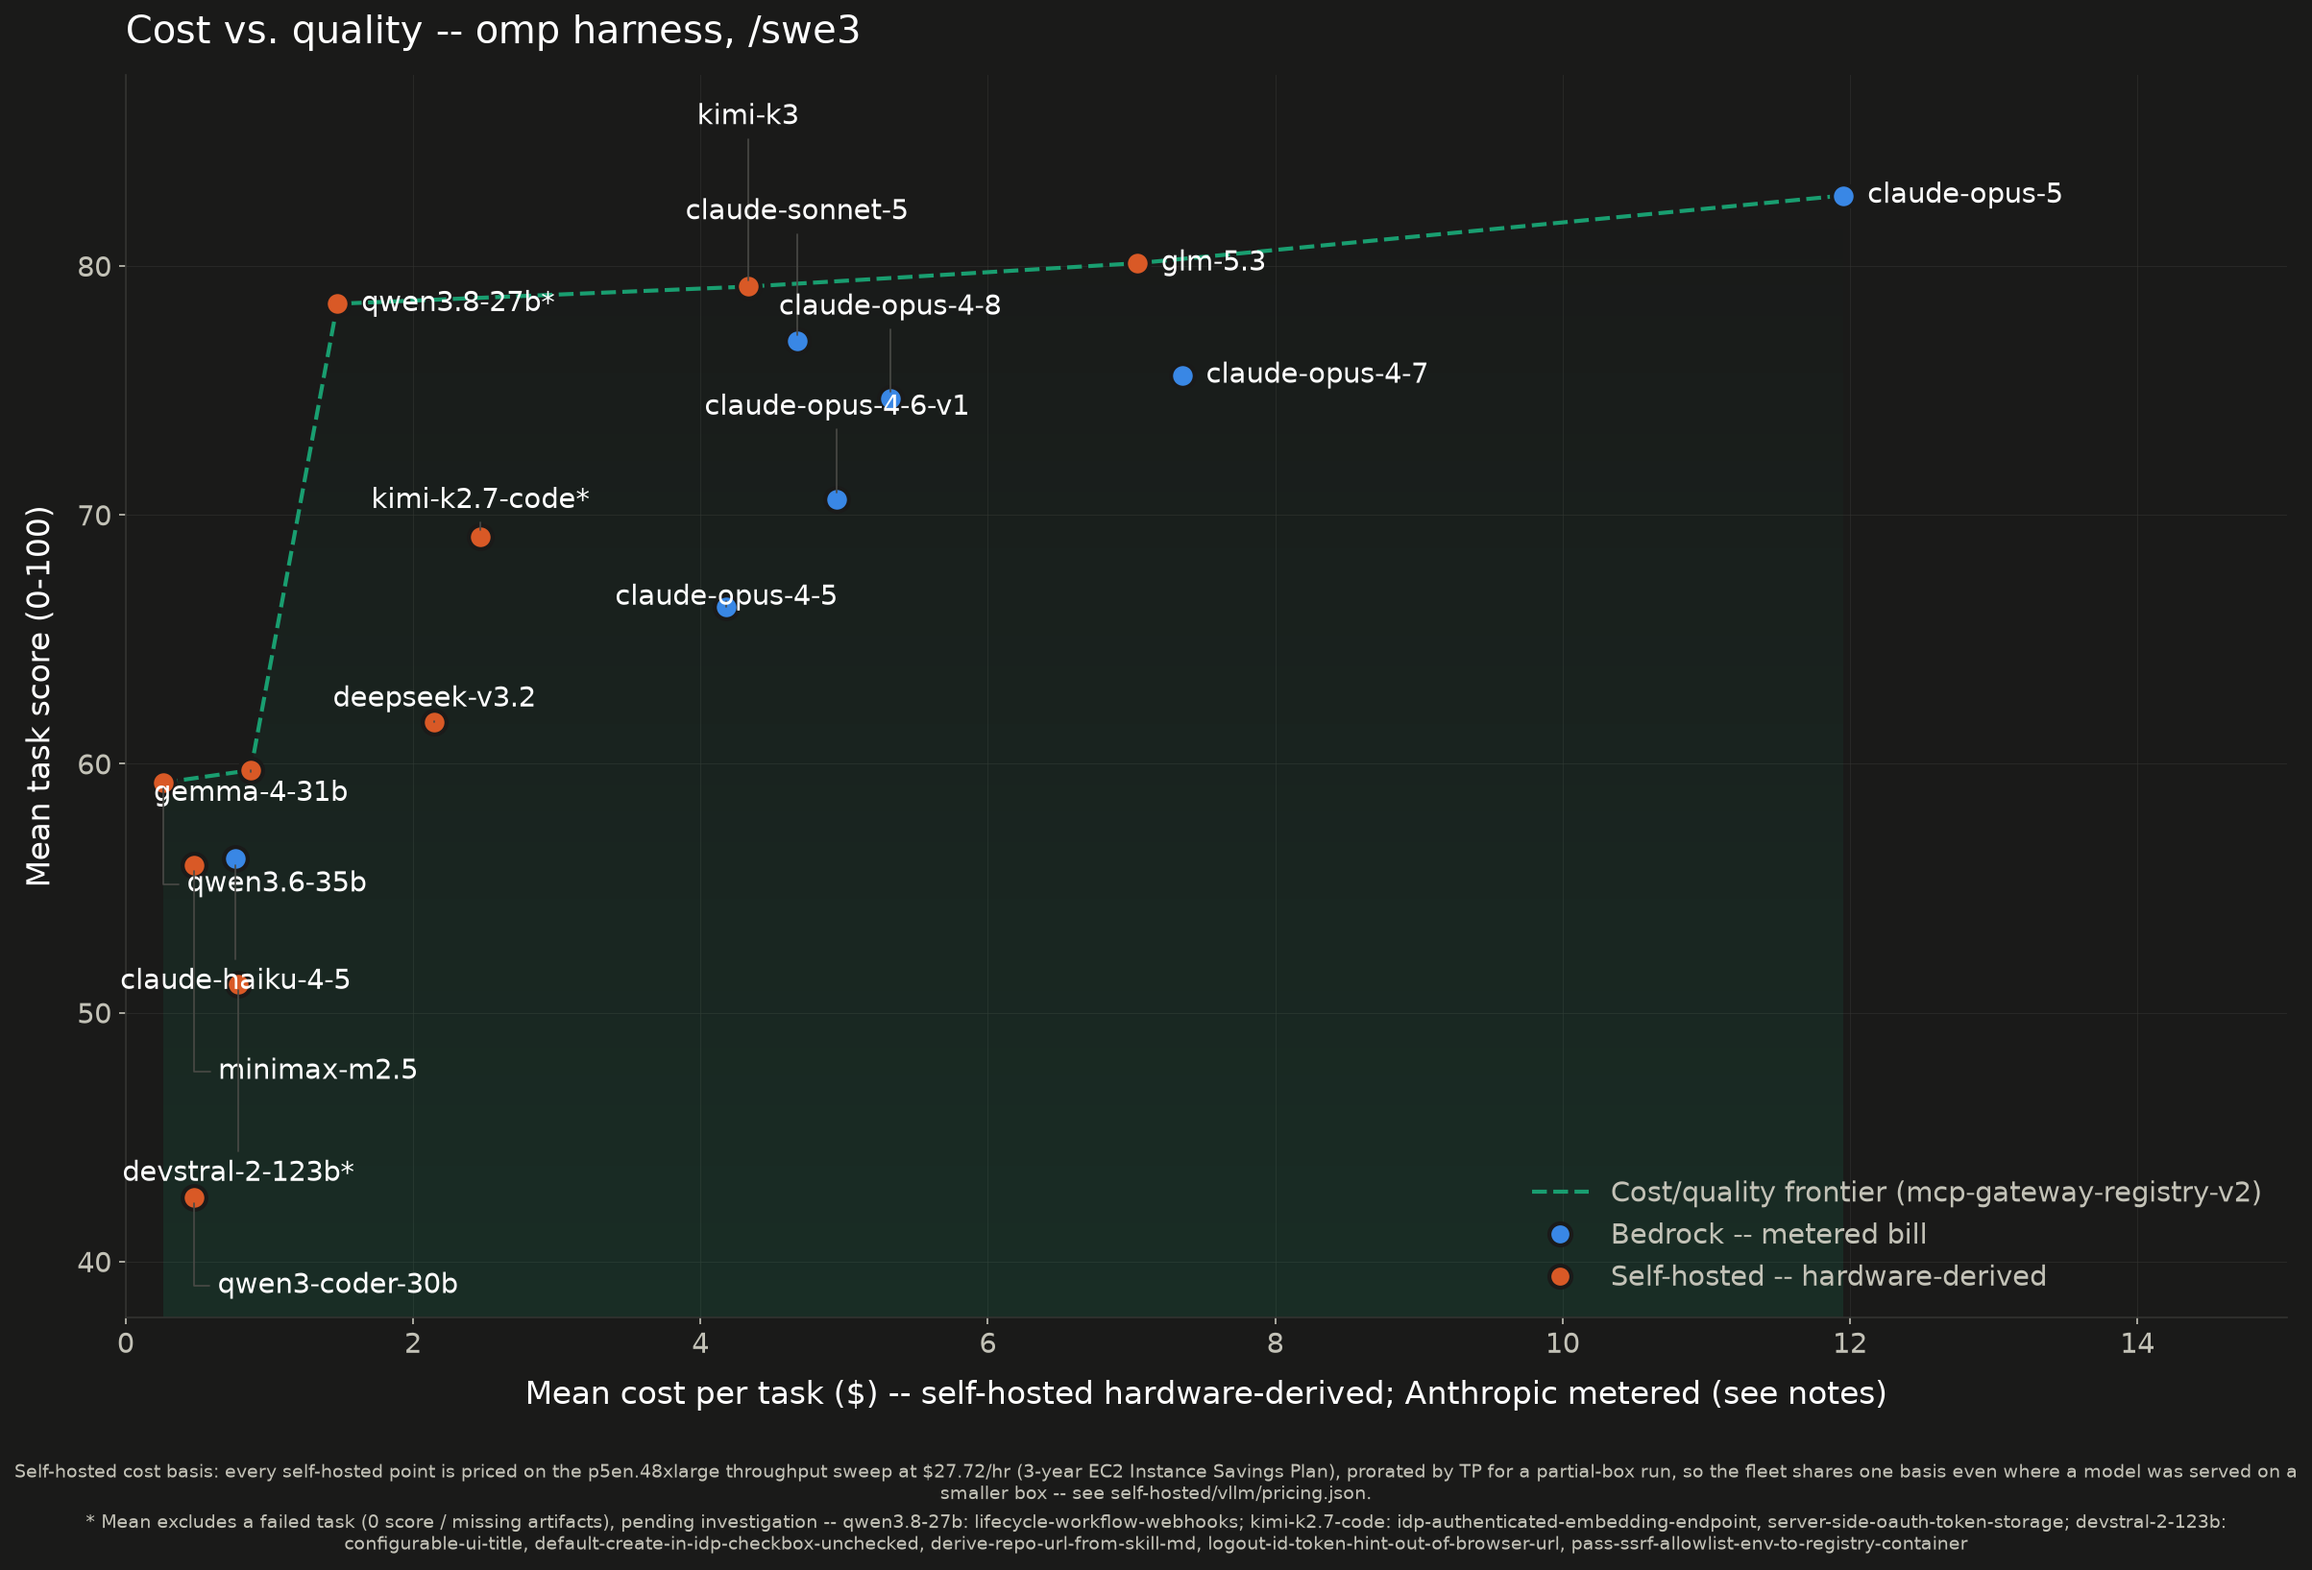
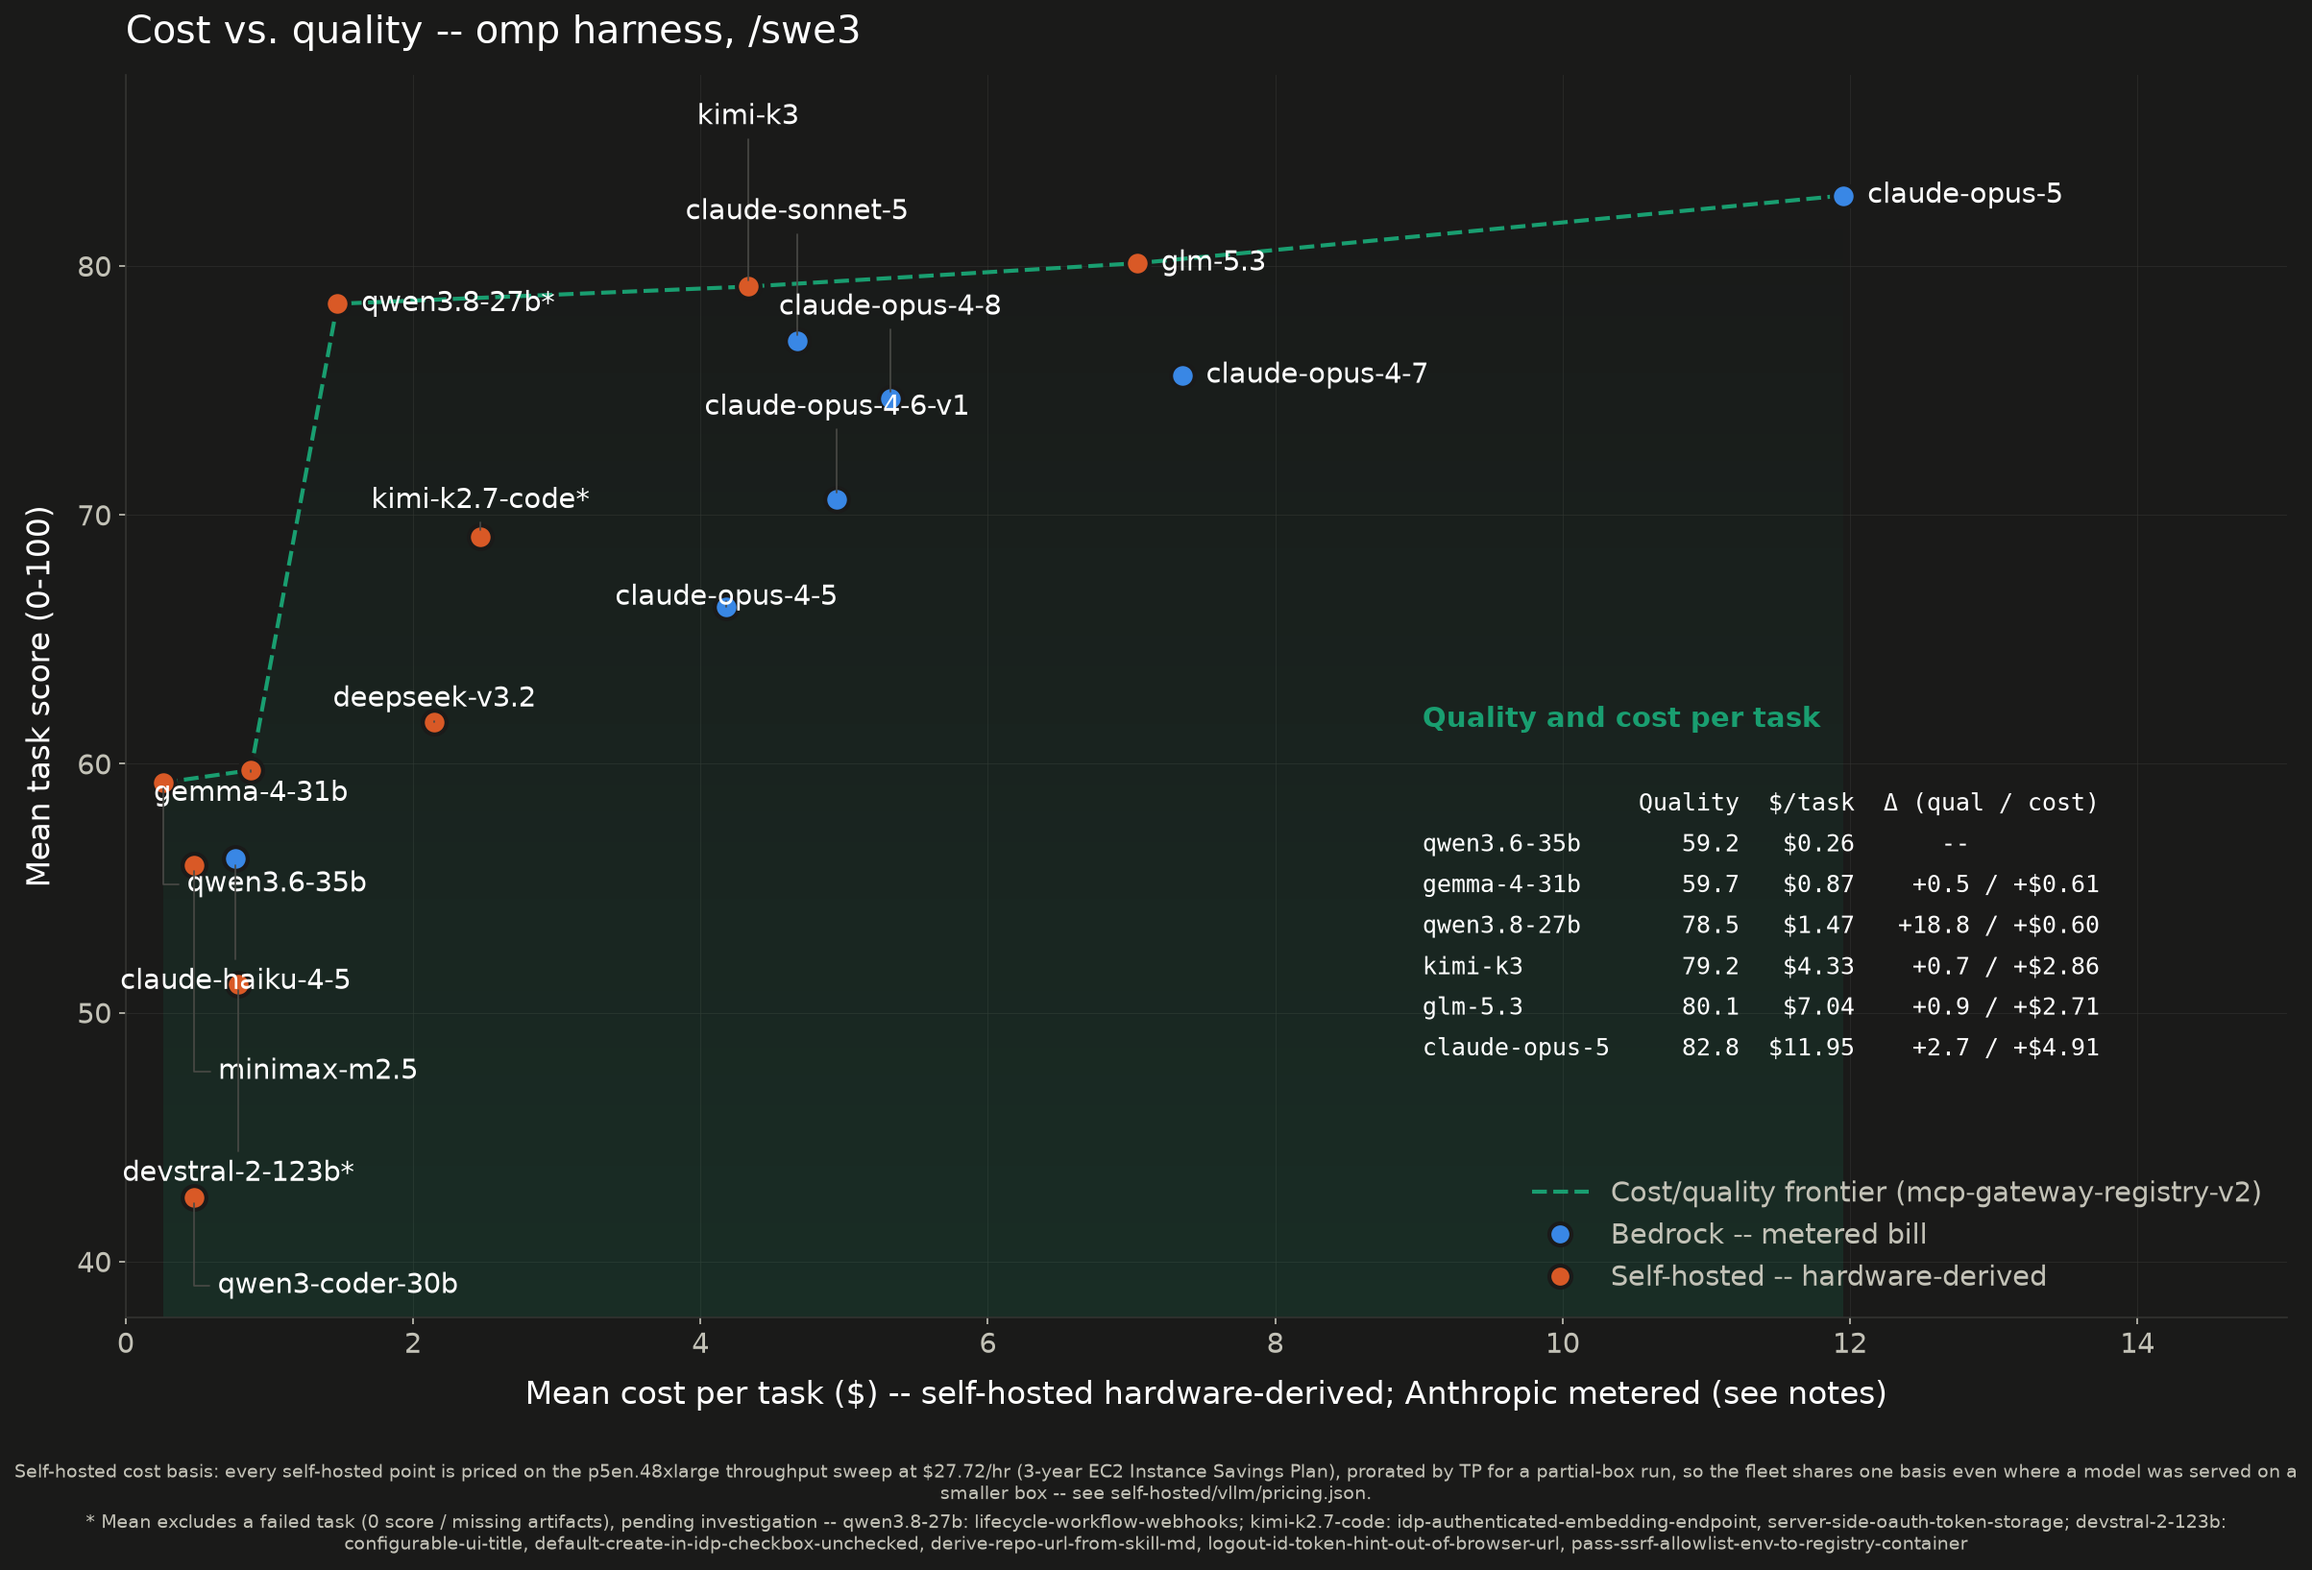
chart(cost-quality): add a 'Quality and cost per task' frontier table with a delta column
plot_cost_quality.py draws a compact table of the on-frontier models in the lower-right of the scatter (inside the plot, above the legend, so it doesn't widen the canvas). Columns: model, quality, cost/task, and a delta column showing what each step up the frontier buys over the row below it -- the quality gained and the extra cost per task. Deltas are computed from the displayed rounded values so subtracting the columns reproduces them. Regenerate the omp/swe3 chart (light + dark); drawing-only, the frontier JSON and models.json are untouched.

diff --git a/benchmarks/scripts/plot_cost_quality.py b/benchmarks/scripts/plot_cost_quality.py
@@ -1246,6 +1246,59 @@ def _plot(
         )
 
     fig.tight_layout()
+
+    # A compact roll-call of the frontier models in the right margin, cheapest
+    # first, so "which models win" reads at a glance without tracing the line
+    # back to each dot. Placed after tight_layout in axes coordinates just past
+    # the right spine; bbox_inches="tight" below grows the saved canvas to
+    # include it (and the surface facecolor fills the new strip).
+    if frontier:
+        ordered = sorted(frontier, key=lambda p: p.mean_cost)
+        # A fixed-width table of the frontier models, cheapest first, with a
+        # delta column showing what each step up the frontier buys: the quality
+        # gained and the extra cost per task over the row below it. Left-anchored
+        # inside the plot above the lower-right legend, so it adds nothing to the
+        # canvas width (a right margin would shrink the plot).
+        header = f"{'':<15}{'Quality':>7}{'$/task':>8}  Δ (qual / cost)"
+        table_lines = [header]
+        prev = None
+        for p in ordered:
+            q = f"{p.mean_score:.1f}"
+            c = f"${p.mean_cost:.2f}"
+            if prev is None:
+                delta = f"{'--':>6}"
+            else:
+                # Delta from the displayed (rounded) values, so a reader who
+                # subtracts the two columns gets exactly the number shown here.
+                dq = f"{round(p.mean_score, 1) - round(prev.mean_score, 1):+.1f}"
+                dc = f"+${round(p.mean_cost, 2) - round(prev.mean_cost, 2):.2f}"
+                delta = f"{dq:>6} / {dc}"
+            table_lines.append(f"{_point_name(p):<15}{q:>7}{c:>8}  {delta}")
+            prev = p
+        ax.text(
+            0.60,
+            0.47,
+            "Quality and cost per task",
+            transform=ax.transAxes,
+            ha="left",
+            va="bottom",
+            fontsize=LEGEND_FONTSIZE,
+            fontweight="bold",
+            color=theme["accent"],
+        )
+        ax.text(
+            0.60,
+            0.20,
+            _escape_dollars("\n".join(table_lines)),
+            transform=ax.transAxes,
+            ha="left",
+            va="bottom",
+            fontsize=LEGEND_FONTSIZE - 2,
+            family="monospace",
+            color=theme["ink"],
+            linespacing=1.7,
+        )
+
     output.parent.mkdir(parents=True, exist_ok=True)
     fig.savefig(output, facecolor=theme["surface"], bbox_inches="tight")
     plt.close(fig)
